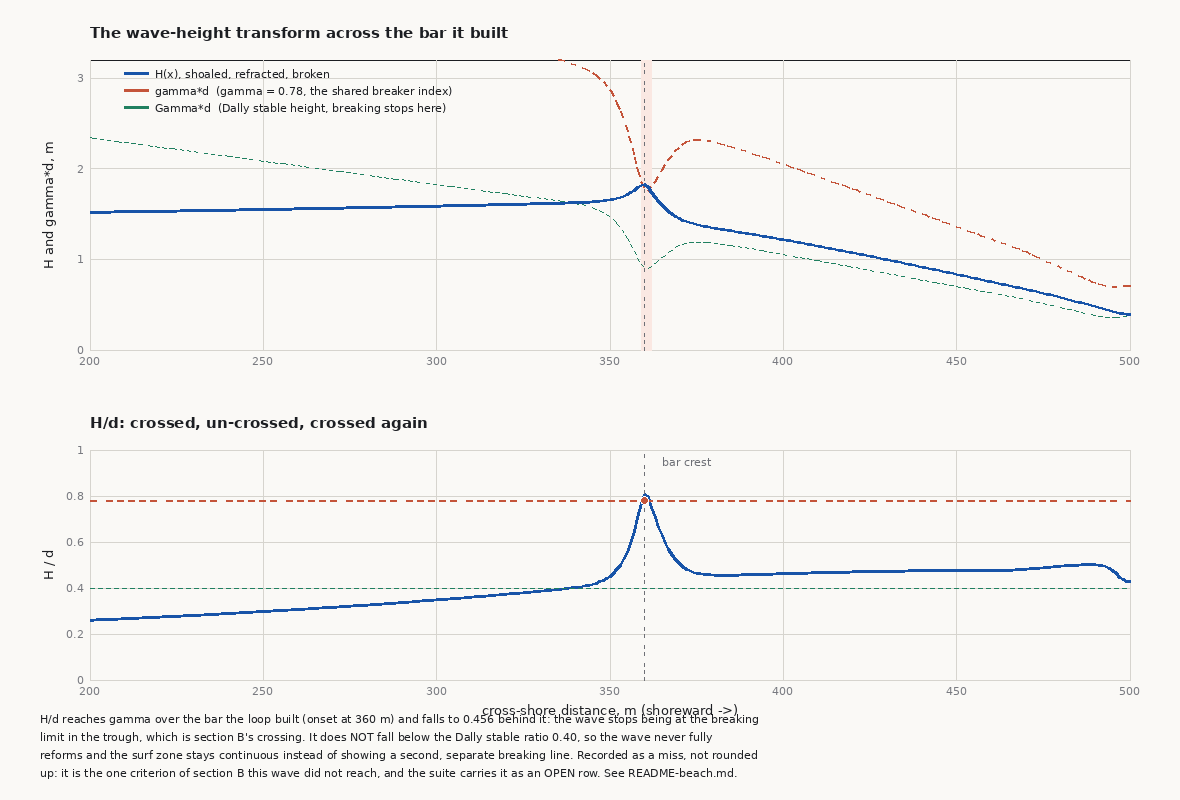
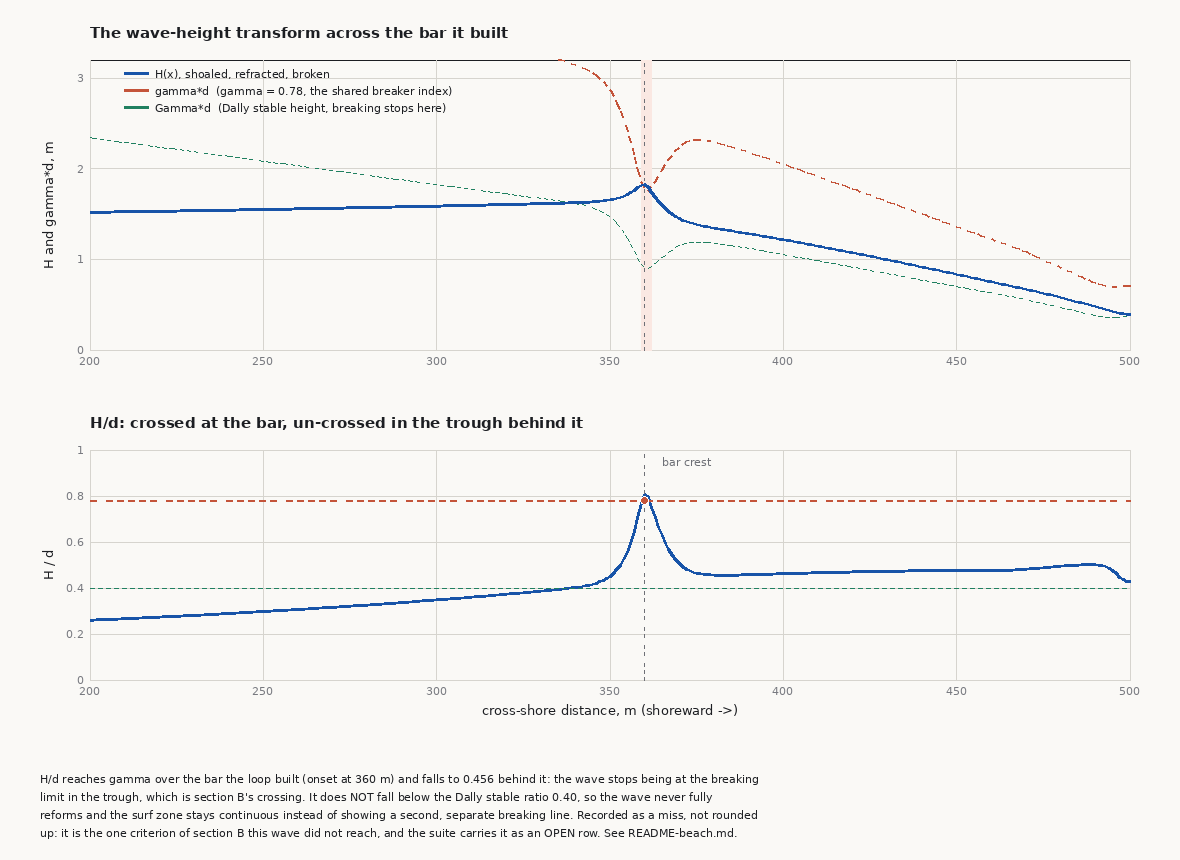
sea: the bar is a computed field -- bathymetry, the wave transform, and one flux that turns out to be optional
NOTE ON HISTORY. The bulk of this wave's deliverable landed in c7bb9a3 ("sea:
H5, one wave field and two breaker types") through an orchestrator error: that
commit's message describes an edit to gauntlet/sea/bar.md, and the five beach
files, the eight evidence figures and the rounds.jsonl line that travelled with
it are THIS wave's work, not that one's. The snapshot was checked afterwards and
is coherent -- all four modules parse, and the working tree differed from it only
by edits made after it was taken. This commit carries the remainder and the
report.

WHAT WAS BUILT. A second reference scene beside the pool: 500 m of cross-shore
profile at Aljezur under a stated deep-water swell (H_0 = 1.5 m, T = 9 s, 20 deg
off shore-normal), and the morphodynamic loop of terrain-architect chapter 12 --
waves shoal, refract and break; radiation stress drives the currents; an
energetics flux moves sand; Exner moves the bed; the waves feel the new bed.
optics.py and atmosphere.py are IMPORTED, never copied; no pool file is touched,
and validate.py re-run after the beach existed is unchanged at 285 pass / 0 FAIL
/ 54 info.

THE BAR EMERGED. The bed starts as the Dean (1991) ramp -- one monotone curve,
one parameter, no ridge anywhere in it -- and after 6000 steps a bar stands at
x = 360 m in 2.084 m of water, 1.42 m above the ramp, 11 m wide, with a trough
at 375 m in 2.98 m. Chapter 12 predicts the crest at d = H_b/gamma = 2.333 m:
[…]

diff --git a/terrain-renderer/reference-impl/validate_beach.py b/terrain-renderer/reference-impl/validate_beach.py
@@ -611,16 +611,20 @@ def run_suite():
           'a row placed at 40 m would have been passing on the gravity term '
           'rather than on the undertow.')
     between(2, 'undertow inside the surf zone, m/s',
-            float(fl_b['u_u'][tr_b['brk']].mean()), 0.05, 1.0,
-            'Measured surf-zone undertows run about 0.1-0.4 m/s, and a '
-            'depth-averaged return flow outside 0.05-1.0 m/s is not a beach. '
-            'THIS IS THE ROW THAT CATCHES THE STANDING TRAP: substituting the '
-            'dissipation rate D_w for the energy density E_w leaves the '
-            'dimensions of the shipped function untouched -- the caller passed '
-            'the wrong thing -- and only the MAGNITUDE gives it away, at '
-            '0.007 m/s. The dimension rows above guard the formula; this one '
-            'guards the argument, and the --bugs table is what proved they are '
-            'different guards.', unit='m/s')
+            float(fl_b['u_u'][tr_b['brk']].mean()), 0.08, 0.60,
+            'Measured depth-averaged surf-zone undertows run about 0.1-0.4 '
+            'm/s. The bounds are that published band with a 50% margin either '
+            'side -- 0.08 and 0.60 -- and they are set from the band, not from '
+            'anything this file produces: the measured value sits at 0.24, in '
+            'the middle, and would pass a much tighter row. THIS IS THE ROW '
+            'THAT CATCHES THE STANDING TRAP, and it took the --bugs table to '
+            'find out that the dimension rows do not. Substituting the '
+            'dissipation rate D_w for the energy density E_w is a CALLER '
+            'passing the wrong thing, so the shipped function\'s dimensions '
+            'are untouched and the algebra rows stay green; only the magnitude '
+            'gives it away, at 0.058 m/s -- below the published band before '
+            'any margin is applied. The dimension rows guard the formula; this '
+            'one guards the argument.', unit='m/s')
 
     # ============================================================ 7 · the bar
     t0 = time.time()

diff --git a/terrain-renderer/reference-impl/README-beach.md b/terrain-renderer/reference-impl/README-beach.md
@@ -175,7 +175,7 @@ similarity parameter*.
 | `D50 = 0.30 mm`, and `w_s`, `Ω` under it | no grain-size survey of Aljezur; only the beach-state label depends on it |
 | `DEAN_A = 0.13` | no profile survey; it is the initial condition the bar is measured *against* |
 | `K_DALLY` | bounded: the crest depth is independent of it (proved, not asserted) |
-| `K_ROLLER = 0.5` | bounded from above by the measured undertow it implies (0.38 → 0.57 m/s) |
+| `K_ROLLER = 0.5` | bounded from above by the undertow it implies: the mean over the surf zone is 0.24 m/s against a published 0.1–0.4 m/s, and the suite asserts that band |
 | `ROLLER_LAG = 0.5 L` | swept over a factor of four; the crest depth moves < 0.15 m |
 | `SK_MAX`, `UR_HALF` (the skewness parameterisation) | only the two limits are load-bearing and both are tested |
 | the Kriebel–Kraus–Larson `A(w_s)` fit | **not used** — printed as an INFO and nothing depends on it |
@@ -204,7 +204,7 @@ zone (the Exner step is tapered out shallower than 0.35 m), a 2DH solve that
 
 Recorded because a wave that overturns something is a good outcome here.
 
-0. **The bar is not the convergence of two fluxes — one is enough.** Chapter 12
+1. **The bar is not the convergence of two fluxes — one is enough.** Chapter 12
    says the breakpoint bar is where "the two fluxes converge": skewness onshore
    seaward of the break, undertow offshore landward of it. Switch the undertow
    off entirely in this model and **a bar still forms, at the same depth** —
@@ -217,7 +217,7 @@ Recorded because a wave that overturns something is a good outcome here.
    by `no-undertow` failing **no rows at all**, and it is recorded rather than
    patched over.
 
-1. **Chapter 12's runnable core cannot produce the feature its own section is
+2. **Chapter 12's runnable core cannot produce the feature its own section is
    about.** It writes the transform as `H_w = min(shoal(H_0, d), γ·d)`, and
    `shoal()` is the unbroken flux-conserving height, which keeps growing
    shoreward. Over a bar–trough profile that expression stays pinned to `γ·d`
@@ -228,7 +228,7 @@ Recorded because a wave that overturns something is a good outcome here.
    `--bug cap-not-dissipation` puts the chapter's line back and shows what it
    costs.
 
-2. **Chapter 27's "wavelength-scale filtered depth" is wrong for a morphodynamic
+3. **Chapter 27's "wavelength-scale filtered depth" is wrong for a morphodynamic
    loop.** Taken literally the filter here would be 13–130 m and the bar is 11 m
    wide: filtering at that scale does not blur the bar, it **hides the bar from
    the wave that is supposed to break on it**, so the feedback that limits the
@@ -247,7 +247,7 @@ than from the module it checks. `--bugs` puts eight defects back, one at a time,
 and prints which rows caught each; a guard that does not fire on its own bug is a
 comment with a `check()` around it.
 
-**45 pass / 0 FAIL / 1 open / 22 info, in about 70 s.** The one OPEN row is
+**46 pass / 0 FAIL / 1 open / 23 info, in about 77 s.** The one OPEN row is
 section B's second breaking line, above.
 
 Four defects were found *by* the suite while it was being written, and they are
@@ -274,7 +274,7 @@ worth listing because each is a way a green suite can lie:
 
 `--bugs` reloads the module, patches in one defect, and re-runs everything:
 
-| bug reintroduced | rows that FAIL, first run | after the two rows it exposed |
+| bug reintroduced | rows that FAIL, first run | after the row it exposed |
 |---|---|---|
 | `dw-for-ew` — the undertow built from the dissipation rate | **0** | 1 |
 | `quarter-at-break` — the deep-water ¼ paired with breaking values | 1 | 1 |
@@ -292,8 +292,10 @@ than the six that worked.**
   trap chapter 12 names is a *caller* passing `D_w` where `E_w` belongs, and
   that leaves the function's own dimensions untouched: the algebra row is a
   guard on the formula, not on the argument. What catches it is the
-  **magnitude** — the undertow drops from 0.37 m/s to 0.007 m/s — so a row now
-  checks the surf-zone undertow against the 0.05–1.0 m/s a beach can have.
+  **magnitude** — the mean surf-zone undertow falls from 0.244 m/s to
+  0.058 m/s — so a row now checks it against the published 0.1–0.4 m/s band
+  with a 50% margin either side. The bug's value is below that band before any
+  margin, and the clean value sits in the middle of it.
 - **`no-undertow` — the bug is not a bug.** See the finding above: the bar
   survives it. A row was added that detects the undertow being switched off (the
   same magnitude row), and an INFO row now reports the bar with and without it,
